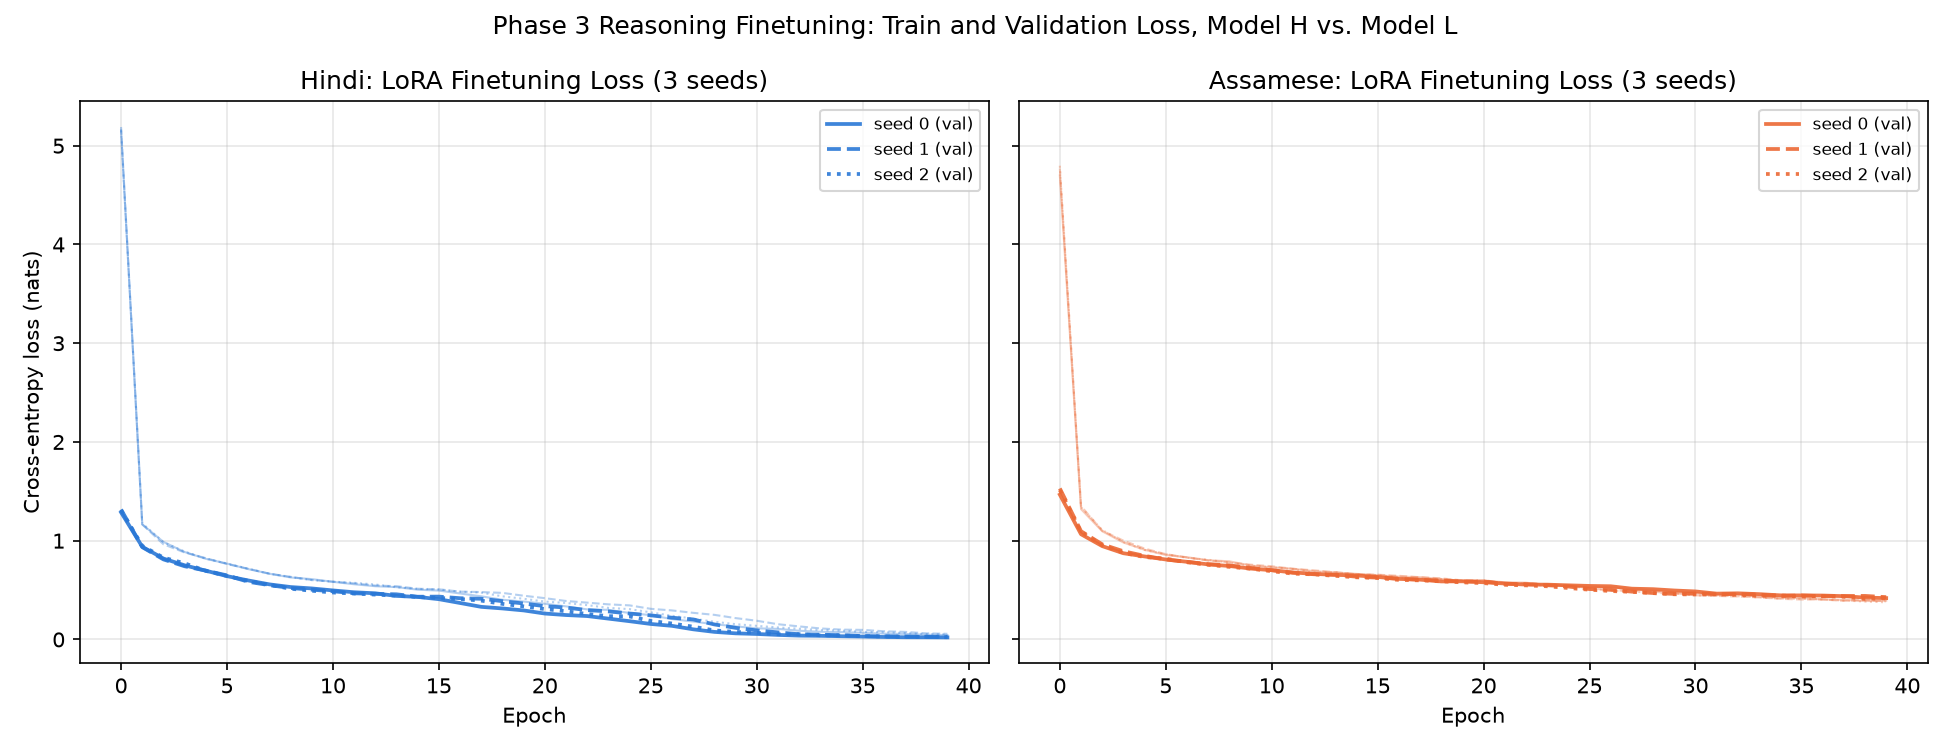
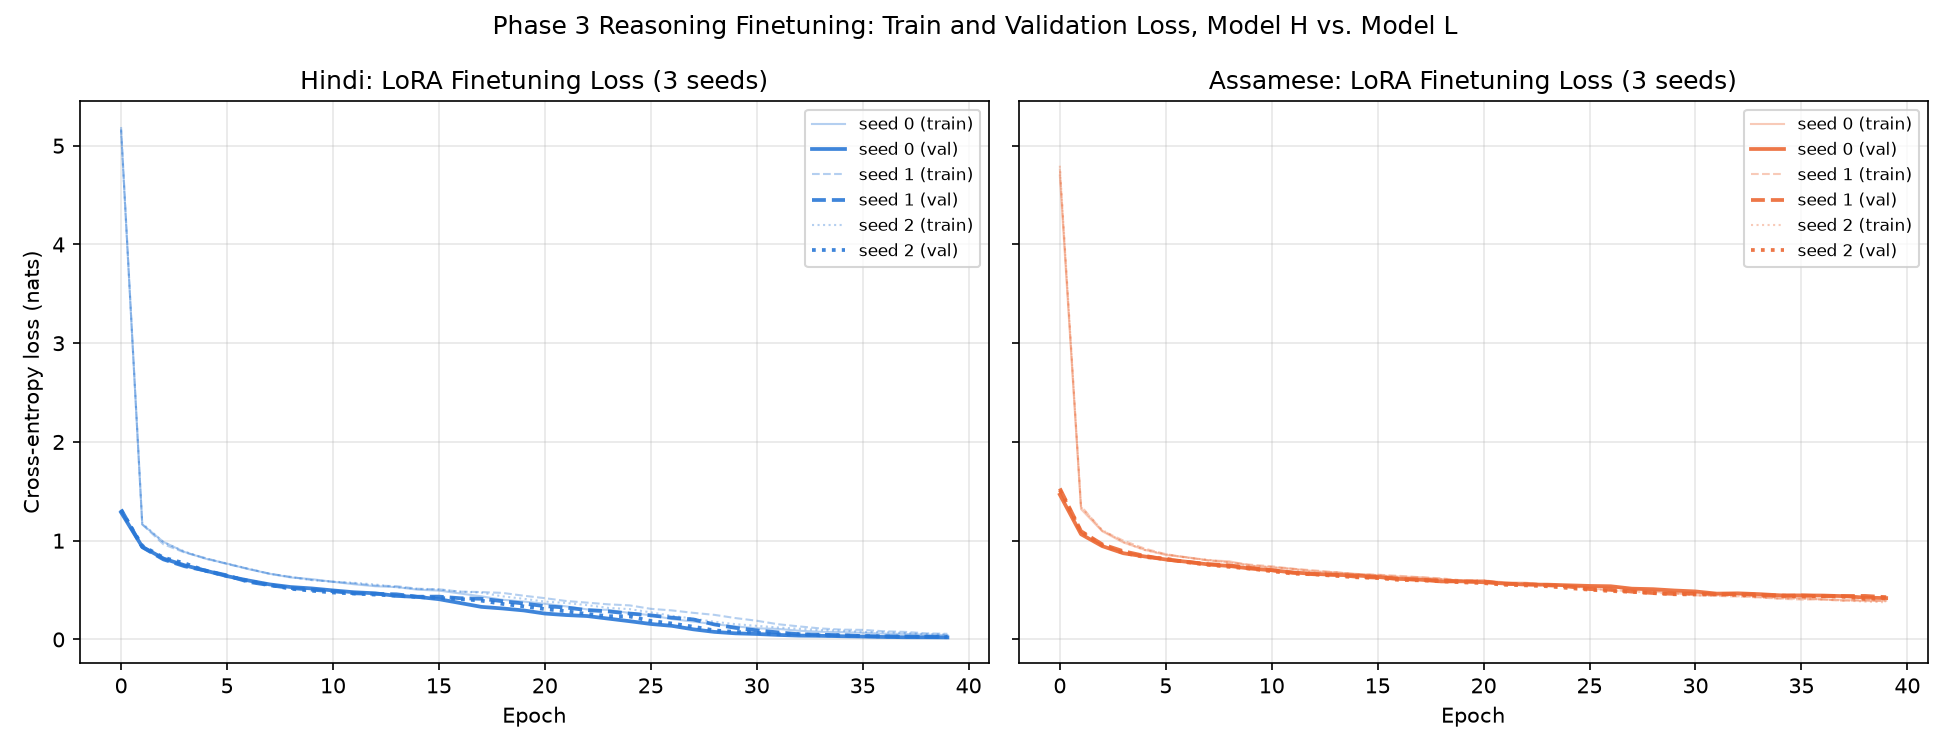
Add proper captions to embedded phase 3 figures, fix a missing legend label and an inaccurate flat-PPL claim
Each heatmap pair and both diagnostic figures now have a caption
explaining axes, color scale, and the specific numbers behind them.
Also labels the previously-unlabeled train-loss line in the loss-curve
legend, and corrects report prose that called the pretrain-perplexity
drift during finetuning flat when the figure shows a real, steady rise.

Changed region(s): [[0.8923, 0.1533, 0.9846, 0.368], [0.4, 0.1533, 0.4923, 0.368]]

diff --git a/report/make_figures_phase3.py b/report/make_figures_phase3.py
@@ -41,7 +41,8 @@ def plot_finetune_loss_curves():
         for seed in SEEDS:
             epochs, train_loss, reasoning_val_loss, _ = load_finetune_log(language, seed)
             style = SEED_STYLES[seed]
-            ax.plot(epochs, train_loss, color=color, alpha=0.35, linewidth=1.0, linestyle=style)
+            ax.plot(epochs, train_loss, color=color, alpha=0.35, linewidth=1.0, linestyle=style,
+                     label=f"seed {seed} (train)")
             ax.plot(epochs, reasoning_val_loss, color=color, alpha=0.9, linewidth=1.8,
                      linestyle=style, label=f"seed {seed} (val)")
         ax.set_xlabel("Epoch")

diff --git a/report/phase3_attention_reasoning.md b/report/phase3_attention_reasoning.md
@@ -48,28 +48,49 @@ finetuned numbers shifted somewhat and are reported fresh, not reused.
 | chained | late (11) | entropy | 2.109 | 1.870 |
 | chained | late (11) | distance | 8.242 | 6.705 |
 
-Heatmaps (one subplot per head; each pair below is the same example and
-layer, pretrained vs. finetuned):
+Heatmaps below: each figure has one subplot per attention head. Row =
+query position, column = key position, both labeled with the actual
+token pieces of the example sentence. Color = attention weight from that
+query to that key (viridis: dark purple near 0, yellow near 1, per-head
+colorbar on the right of each subplot). The blank upper-right triangle in
+every subplot is the causal mask -- a query can only attend to keys at or
+before its own position. Each pair below is the same example and layer,
+pretrained on the left, finetuned on the right.
 
 *Pairwise, early layer (0)*
 
 ![Hindi pairwise early layer pretrained](figures/phase3_attention_reasoning_hindi_early_layer_pretrained_pairwise.png)
 ![Hindi pairwise early layer finetuned](figures/phase3_attention_reasoning_hindi_early_layer_finetuned_seed0_pairwise.png)
 
+Entropy 2.008 to 1.993, distance 6.421 to 6.487 -- early-layer attention
+on the short two-entity example is essentially unmoved by finetuning.
+
 *Pairwise, late layer (11)*
 
 ![Hindi pairwise late layer pretrained](figures/phase3_attention_reasoning_hindi_late_layer_pretrained_pairwise.png)
 ![Hindi pairwise late layer finetuned](figures/phase3_attention_reasoning_hindi_late_layer_finetuned_seed0_pairwise.png)
+
+Entropy drops 1.627 to 1.571 (more selective), but distance lengthens
+slightly, 4.618 to 4.827 -- the one case in this report where distance
+moves the opposite way from entropy (discussed below).
 
 *Chained, early layer (0)*
 
 ![Hindi chained early layer pretrained](figures/phase3_attention_reasoning_hindi_early_layer_pretrained_chained.png)
 ![Hindi chained early layer finetuned](figures/phase3_attention_reasoning_hindi_early_layer_finetuned_seed0_chained.png)
 
+Entropy 2.577 to 2.562, distance 12.108 to 12.129 -- like the pairwise
+case, early-layer attention on the longer three-entity example barely
+shifts.
+
 *Chained, late layer (11)*
 
 ![Hindi chained late layer pretrained](figures/phase3_attention_reasoning_hindi_late_layer_pretrained_chained.png)
 ![Hindi chained late layer finetuned](figures/phase3_attention_reasoning_hindi_late_layer_finetuned_seed0_chained.png)
+
+Entropy 2.109 to 1.870 and distance 8.242 to 6.705 -- the largest shift
+in either metric for Hindi, on the example that actually requires
+combining both premises.
 
 **Assamese**
 
@@ -84,28 +105,44 @@ layer, pretrained vs. finetuned):
 | chained | late (11) | entropy | 2.209 | 1.878 |
 | chained | late (11) | distance | 11.335 | 9.477 |
 
-Heatmaps (one subplot per head; each pair below is the same example and
-layer, pretrained vs. finetuned):
+Same reading as the Hindi heatmaps above: one subplot per head, row =
+query position, column = key position (token pieces labeled), color =
+attention weight (viridis, dark to yellow = 0 to 1), blank upper-right
+triangle is the causal mask. Pretrained on the left, finetuned on the
+right in each pair.
 
 *Pairwise, early layer (0)*
 
 ![Assamese pairwise early layer pretrained](figures/phase3_attention_reasoning_assamese_early_layer_pretrained_pairwise.png)
 ![Assamese pairwise early layer finetuned](figures/phase3_attention_reasoning_assamese_early_layer_finetuned_seed0_pairwise.png)
 
+Entropy 2.213 to 2.194, distance unchanged at 5.570 -- no real shift at
+this layer for the short example.
+
 *Pairwise, late layer (11)*
 
 ![Assamese pairwise late layer pretrained](figures/phase3_attention_reasoning_assamese_late_layer_pretrained_pairwise.png)
 ![Assamese pairwise late layer finetuned](figures/phase3_attention_reasoning_assamese_late_layer_finetuned_seed0_pairwise.png)
+
+Entropy 1.671 to 1.565 and distance 6.061 to 5.635 -- both metrics move
+the same direction here, unlike Hindi's equivalent pair.
 
 *Chained, early layer (0)*
 
 ![Assamese chained early layer pretrained](figures/phase3_attention_reasoning_assamese_early_layer_pretrained_chained.png)
 ![Assamese chained early layer finetuned](figures/phase3_attention_reasoning_assamese_early_layer_finetuned_seed0_chained.png)
 
+Entropy 2.573 to 2.522, distance 9.238 to 9.304 -- minor movement, same
+pattern as every other early-layer pair in this report.
+
 *Chained, late layer (11)*
 
 ![Assamese chained late layer pretrained](figures/phase3_attention_reasoning_assamese_late_layer_pretrained_chained.png)
 ![Assamese chained late layer finetuned](figures/phase3_attention_reasoning_assamese_late_layer_finetuned_seed0_chained.png)
+
+Entropy 2.209 to 1.878 and distance 11.335 to 9.477 -- the largest shift
+in either metric for Assamese, and larger than Hindi's equivalent pair
+(discussed below).
 
 ## Discussion
 

diff --git a/report/phase3_reasoning_eval.md b/report/phase3_reasoning_eval.md
@@ -50,15 +50,34 @@ multi-seed requirement, early stopping on reasoning-validation loss
 every epoch as a catastrophic-forgetting diagnostic but is not an
 automatic stop condition: no literature or course precedent was found for
 a fixed PPL-increase percentage threshold, and the course's own guidance
-is to plot and inspect the curve rather than auto-trigger on it. Figures
-below show this diagnostic held essentially flat across all three seeds,
-both languages (Hindi ~38 to ~57 PPL, Assamese ~62 to ~89) -- no
-forgetting signal severe enough to warrant a stop was observed at this
-training budget.
+is to plot and inspect the curve rather than auto-trigger on it. Figure
+below shows this diagnostic rising steadily but modestly across all three
+seeds, both languages (Hindi ~41 to ~56 PPL, Assamese ~62 to ~89) -- a
+real drift, not a flat line, but nowhere near the 288x blowup measured
+under full finetuning (see above), so no forgetting signal severe enough
+to warrant a stop was observed at this training budget.
 
 ![Finetune training and reasoning-validation loss curves, all seeds, both languages](figures/phase3_finetune_loss_curves.png)
 
+Training loss (thin) and reasoning-validation loss (thick) per epoch, one
+line style per seed, one panel per language. Both drop sharply in the
+first 1-2 epochs, then decline smoothly with train and validation loss
+tracking closely (no divergence, no validation-loss upturn in any seed)
+-- the visual basis for "patience never fired, every seed ran the full 40
+epochs." Hindi converges toward near-zero loss; Assamese plateaus around
+0.4, consistent with its lower final accuracy.
+
 ![Pretrain-validation perplexity during finetuning, catastrophic-forgetting diagnostic](figures/phase3_pretrain_ppl_forgetting.png)
+
+Perplexity of the original Phase 2 pretrain-validation set, measured every
+epoch during reasoning finetuning, one line per seed, one panel per
+language. Both languages show a real, steady rise over the 40 epochs
+(Hindi ~41 to ~56, Assamese ~62 to ~89) rather than a flat line -- LoRA's
+rank-constrained update does not fully prevent drift on the original
+pretraining distribution, it only keeps that drift far short of the 288x
+blowup measured under full finetuning (see Method above). Y-axis range
+differs between the two panels only because Hindi's and Assamese's
+pretrained checkpoints start from different baseline perplexities.
 
 Every seed, both languages, reached the 40-epoch ceiling without the
 reasoning-validation-loss patience condition ever firing on its own. This
